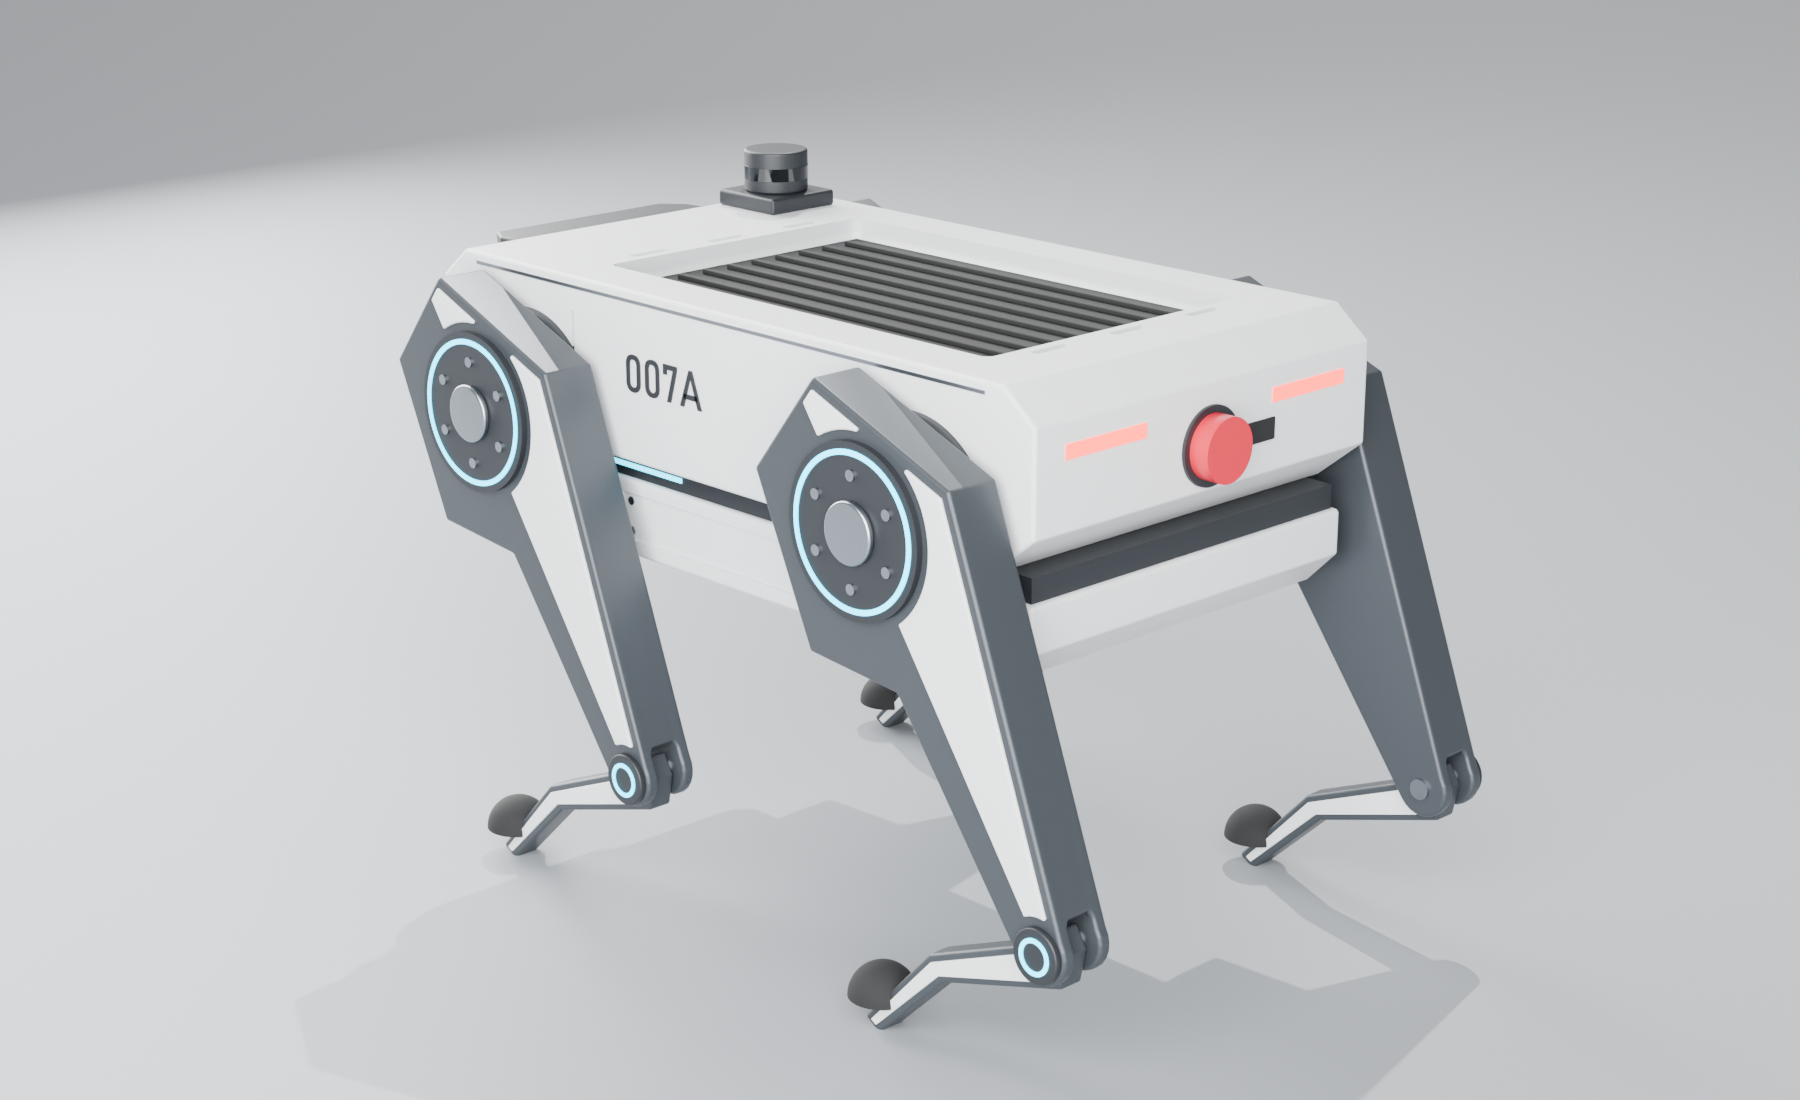
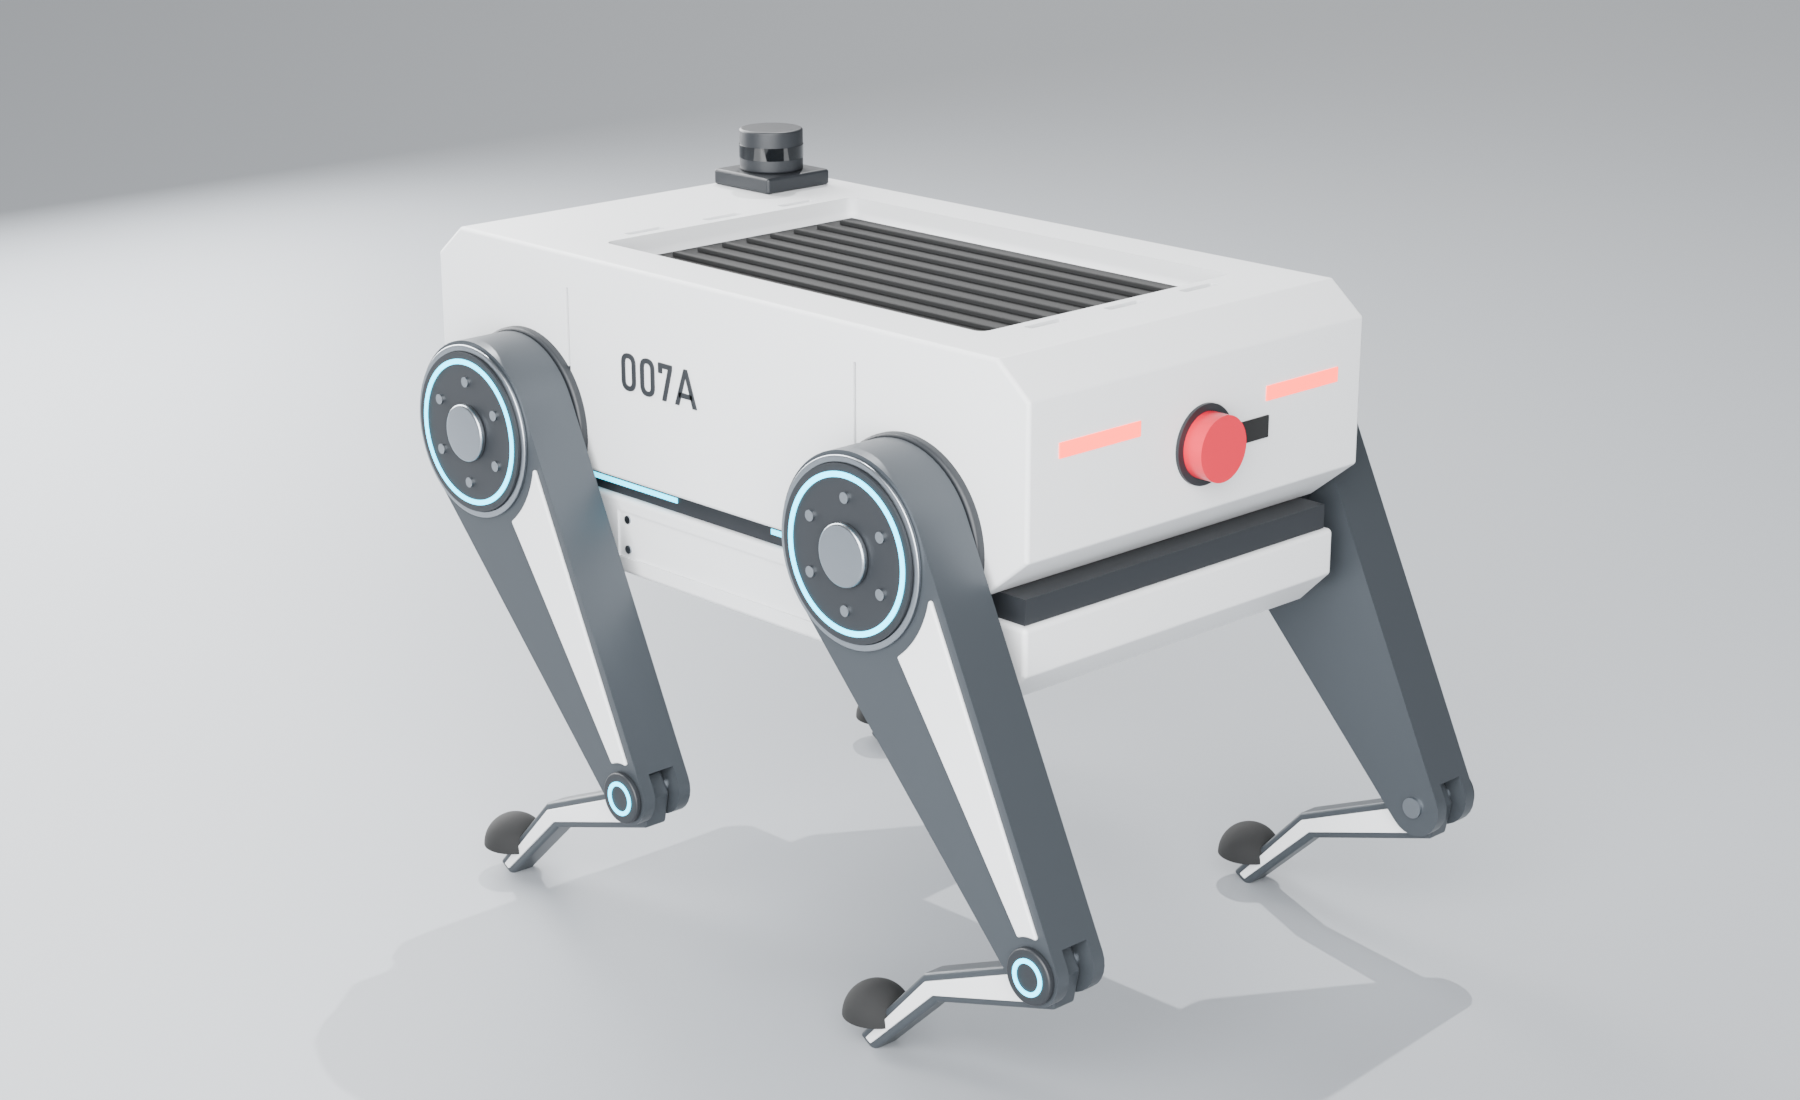
007A 外观 v4：髋改成圆形分层关节（Φ106），大腿切线收到膝；机身加高 25；取消头上眉檐和装饰边线（没作用的不设计）

Changed region(s): [[0.2178, 0.1236, 0.84, 0.9582], [0.5911, 0.4018, 0.6222, 0.4327]]

diff --git a/007a/model.py b/007a/model.py
@@ -20,7 +20,7 @@ OUT = os.path.join(HERE, "out", "parts")
 V = cq.Vector
 
 # ================================================================ 尺寸
-BODY_L, BODY_W, BODY_H = 480.0, 260.0, 160.0
+BODY_L, BODY_W, BODY_H = 480.0, 260.0, 185.0          # v4：机身往上加高 25（底不动）
 L2, W2 = BODY_L / 2, BODY_W / 2
 HIP_X = 160.0                                   # 髋往后收：头要在最前面（v2，用户：腿不能超过头）
 MOTOR_D = 92.0                                   # 关节电机（GIM8108-8 级别）
@@ -33,11 +33,12 @@ S = L1 / math.dist(H0, K0)
 LS = math.dist(K0, T0) * S                       # 小腿（膝 → 脚尖）
 STAND_KNEE = 90.0
 HIP_Z = math.sqrt(L1 ** 2 + LS ** 2 - 2 * L1 * LS * math.cos(math.radians(STAND_KNEE)))
-Z0 = HIP_Z - BODY_H / 2                          # 机身底离地
-TUB_TOP, WAIST_TOP = Z0 + 46, Z0 + 60            # 下层底盘顶、黑腰顶（上层外壳 100 高，屏幕整块嵌进去）
+Z0 = HIP_Z - 80.0                                # 机身底离地（髋在下层底盘上方）
+TUB_TOP, WAIST_TOP = Z0 + 46, Z0 + 60            # 下层底盘顶、黑腰顶（上层外壳 125 高）
 TOP = Z0 + BODY_H
 HUB_SK = [(-35, -33), (28, -33), (33, 38), (-4, 49), (-47, 8)]
 RK = 17.0                                        # 大腿膝那头的圆头半径
+RH = MOTOR_D / 2 + 7.0                           # v4：髋关节外壳半径（Φ106，只比电机大一圈）
 
 
 def _hub_scale():
@@ -119,17 +120,14 @@ def leg_2d(foot=(0.0, -HIP_Z)):
     sk = lambda p, o: (-(p[0] - o[0]), -(p[1] - o[1]))           # 草图 → 镜像 + y 朝上
     a_sk = math.atan2(*reversed(sk(K0, H0)))
     r = math.atan2(knee[1], knee[0]) - a_sk
-    hub = [_rot((-x * HUB_F, -y * HUB_F), r) for x, y in HUB_SK]
     kx, kz = knee
-    ang = math.atan2(kz, kx)
-    ux, uz = math.cos(ang), math.sin(ang)
-    nx, nz = -uz, ux
-    # v3：照草图的楔形大腿：上沿从髋盘右上角直通到膝，下沿从髋盘下面的缺口收到膝；膝那头是半圆（转轴在圆心）
-    sgn = 1 if (hub[1][0] * nx + hub[1][1] * nz) > 0 else -1      # 草图镜像后，髋盘第 2 个点在大腿哪一侧（那一侧是“上沿”）
-    f_top, f_u = math.atan2(sgn * nz, sgn * nx), math.atan2(uz, ux)
-    d = 1 if math.sin(f_u - f_top) > 0 else -1                     # 从上沿那侧绕过膝的外头，转到下沿那侧
-    arc = [(kx + RK * math.cos(f_top + d * math.pi * i / 12), kz + RK * math.sin(f_top + d * math.pi * i / 12)) for i in range(13)]
-    thigh = hub[:2] + arc + hub[2:]
+    d = math.hypot(kx, kz)
+    base = math.atan2(kz, kx)
+    al = math.acos((RH - RK) / d)                                  # 两圆外公切线
+    hub_arc = [(RH * math.cos(base + al + (2 * math.pi - 2 * al) * i / 36), RH * math.sin(base + al + (2 * math.pi - 2 * al) * i / 36))
+               for i in range(37)]                                 # 髋：从上切点绕后面到下切点
+    knee_arc = [(kx + RK * math.cos(base - al + 2 * al * i / 12), kz + RK * math.sin(base - al + 2 * al * i / 12)) for i in range(13)]
+    thigh = hub_arc + knee_arc
 
     def at_knee(pts, rr):
         return [tuple(k + d for k, d in zip(knee, _rot((sk(p, K0)[0] * S, sk(p, K0)[1] * S), rr))) for p in pts]
@@ -165,9 +163,10 @@ def leg_parts(fx, sy):
             (math.cos(ang) * 400 + nx * up * 2, math.sin(ang) * 400 + nz * up * 2),
             (-math.cos(ang) * 400 + nx * up * 2, -math.sin(ang) * 400 + nz * up * 2)]
     cover = prism_xz_offset(thigh, -5.0, y_out - 0.5, y_out + 2.0).intersect(prism_xz(half, y_out - 2, y_out + 4))
-    cover = cover.cut(cyl_y(0, 0, MOTOR_D + 12, y_out - 5, y_out + 6)).cut(cyl_y(kx, kz, 2 * RK + 6, y_out - 5, y_out + 6))
+    cover = cover.cut(cyl_y(0, 0, 2 * RH + 10, y_out - 5, y_out + 6)).cut(cyl_y(kx, kz, 2 * RK + 6, y_out - 5, y_out + 6))
     P.append(("大腿外盖板", place(soft(cover, 1.2), 0), "shell"))
-    # 髋盘外面：深色电机盖 + 青色光环 + 中心盖 + 6 颗螺栓
+    # 髋关节：分层——外壳（大腿一体）→ 一圈台阶 → 电机端盖（深色）→ 青色光环（关节状态灯）→ 金属中心盖 + 6 颗螺栓
+    P.append(("髋台阶", place(soft(ring_y(0, 0, 2 * RH - 4, MOTOR_D + 2, y_out, y_out + 2.5), 0.8), 0), "metal"))
     P.append(("髋盖", place(cyl_y(0, 0, MOTOR_D + 2, y_out, y_out + 4), 0), "skel_dk"))
     P.append(("髋光环", place(ring_y(0, 0, MOTOR_D - 6, MOTOR_D - 12, y_out + 4, y_out + 4.6), 0), "cyan"))
     P.append(("髋中心盖", place(soft(cyl_y(0, 0, 34, y_out + 4, y_out + 8), 1.5), 0), "metal"))
@@ -258,12 +257,10 @@ def body_parts():
         else:
             txt = txt.translate(V(0, -W2 - 2, zc))
         P.append((f"字样{sy}", txt, "skel_dk"))
-        P.append((f"甲板边线{sy}", box(-L2 + 30, L2 - 30, *sorted((sy * (W2 + 2), sy * (W2 + 2.4))), TOP - 7, TOP - 5), "metal"))
     # ---- 头：深色屏幕模块从前脸往前伸 30，前面切角（像头盔面罩）；两侧金属圆盖 = 抬头低头的转轴
     hx0, hx1 = L2 + 4, L2 + 4 + HD
     zb, zt = zc - HH / 2, zc + HH / 2
-    prof = [(hx0 - 10, zb + 4), (hx1 - 18, zb), (hx1, zb + 18), (hx1, zt - 12), (hx1 + 9, zt - 4), (hx1 + 6, zt),
-            (hx0 - 10, zt + 2)]                                      # 侧面：下巴往回收、眉檐往前探 9 mm
+    prof = [(hx0 - 10, zb + 4), (hx1 - 18, zb), (hx1, zb + 18), (hx1, zt - 6), (hx1 - 6, zt), (hx0 - 10, zt)]   # 侧面：下巴往回收
     head = prism_xz(prof, -HW / 2, HW / 2)
     for sy in (1, -1):                                             # 前面两侧切掉一个斜角（收窄）
         tri = cq.Workplane("XY").polyline([(hx1 - 12, sy * (HW / 2 + 1)), (hx1 + 12, sy * (HW / 2 + 1)),
@@ -272,7 +269,6 @@ def body_parts():
     head = soft(head, 1.5)
     head = head.cut(box(hx1 - 3, hx1 + 1, -sw / 2, sw / 2, zc - sh / 2 - 2, zc + sh / 2 - 2))
     P.append(("头", head, "skel_dk"))
-    P.append(("头眉檐灯", box(hx1 + 2, hx1 + 8, -HW / 2 + 22, HW / 2 - 22, zt - 4.6, zt - 4.0), "cyan"))
     for sy in (1, -1):                                             # 头两侧的鳍（装转轴的“耳朵”）
         fin = prism_xz([(hx0 - 6, zc - 22), (hx0 + 14, zc - 22), (hx0 + 22, zc + 10), (hx0 + 4, zc + 26), (hx0 - 6, zc + 26)],
                        *sorted((sy * HW / 2, sy * (HW / 2 + 6))))
